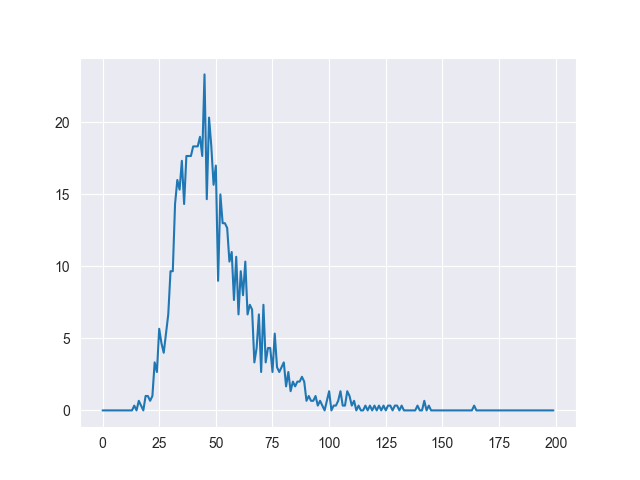
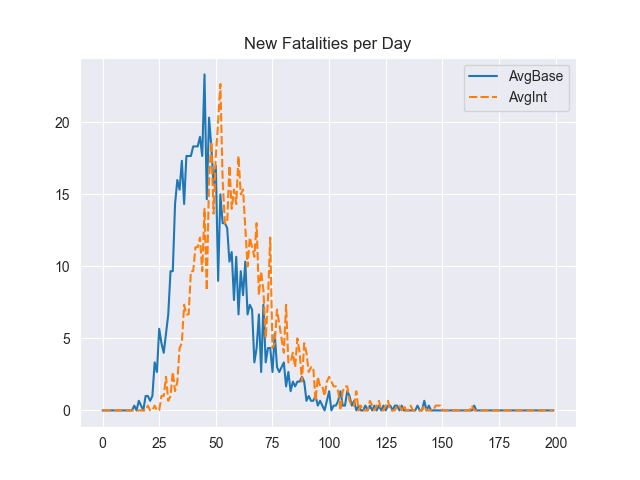
Added summary

diff --git a/experiments/results.py b/experiments/results.py
@@ -27,10 +27,27 @@ for fname in files:
 infected_nums = pd.DataFrame()
 hospitalized_nums = pd.DataFrame()
 fatalities_nums = pd.DataFrame()
+fatalities_rates = pd.DataFrame()
+summary_df = pd.DataFrame(columns=['highest_infections_day',
+                                   'highest_infections',
+                                   'highest_hospitalizations_day',
+                                   'highest_hospitalizations',
+                                   'hospital_person_days',
+                                   'highest_deaths_day',
+                                   'highest_deaths'])
 for i in range(len(files)):
     infected_nums[files[i].split('_')[0]] = networks[i]['Infected'].values
     hospitalized_nums[files[i].split('_')[0]] = networks[i]['Hospitalized'].values
     fatalities_nums[files[i].split('_')[0]] = networks[i]['Fatalities'].values
+    fatalities_rates[files[i].split('_')[0]] = networks[i]['delta_Fatalities'].values
+
+    summary_df.loc[i] = [np.argmax(networks[i]['Infected'].values),
+                         max(networks[i]['Infected']),
+                         np.argmax(networks[i]['Hospitalized'].values),
+                         max(networks[i]['Hospitalized']),
+                         sum(networks[i]['Hospitalized'].values),
+                         np.argmax(networks[i]['delta_Fatalities'].values),
+                         max(networks[i]['delta_Fatalities'])]
 
 base_graphs = []
 intervention_graphs = []
@@ -49,25 +66,27 @@ hospitalized_nums['AvgInt'] = hospitalized_nums[intervention_graphs].mean(axis=1
 fatalities_nums['AvgBase'] = fatalities_nums[base_graphs].mean(axis=1)
 fatalities_nums['AvgInt'] = fatalities_nums[intervention_graphs].mean(axis=1)
 
+fatalities_rates['AvgBase'] = fatalities_rates[base_graphs].mean(axis=1)
+fatalities_rates['AvgInt'] = fatalities_rates[intervention_graphs].mean(axis=1)
+
 plt.figure()
+plt.title('Total Infected per Day')
 fig1 = sns.lineplot(data=infected_nums[AVGS])
 fig1.figure.savefig('plotted_results/infected_totals.png')
 
 plt.figure()
+plt.title('Total Hospitalized per Day')
 fig2 = sns.lineplot(data=hospitalized_nums[AVGS])
 fig2.figure.savefig('plotted_results/hospitalized_totals.png')
 
 plt.figure()
+plt.title('Total Fatalities per Day')
 fig3 = sns.lineplot(data=fatalities_nums[AVGS])
 fig3.figure.savefig('plotted_results/fatalities_totals.png')
 
-# fatalities_rates = pd.DataFrame({'BaseNetwork1': base_1['delta_Fatalities'].values,
-#                                  'BaseNetwork2': base_2['delta_Fatalities'].values,
-#                                  'BaseNetwork3': base_3['delta_Fatalities'].values})
+plt.figure()
+plt.title('New Fatalities per Day')
+fig4 = sns.lineplot(data=fatalities_rates[AVGS])
+fig4.figure.savefig('plotted_results/fatalities_delta.png')
 
-# fatalities_rates['avg'] = (fatalities_rates['BaseNetwork1'] + fatalities_rates['BaseNetwork2'] + fatalities_rates['BaseNetwork3']) / 3
-
-# plt.figure()
-# fig4 = sns.lineplot(data=fatalities_rates['avg'])
-# fig4.figure.savefig('plotted_results/fatalities_delta.png')
-
+summary_df.to_csv('summary.csv', index=False)
